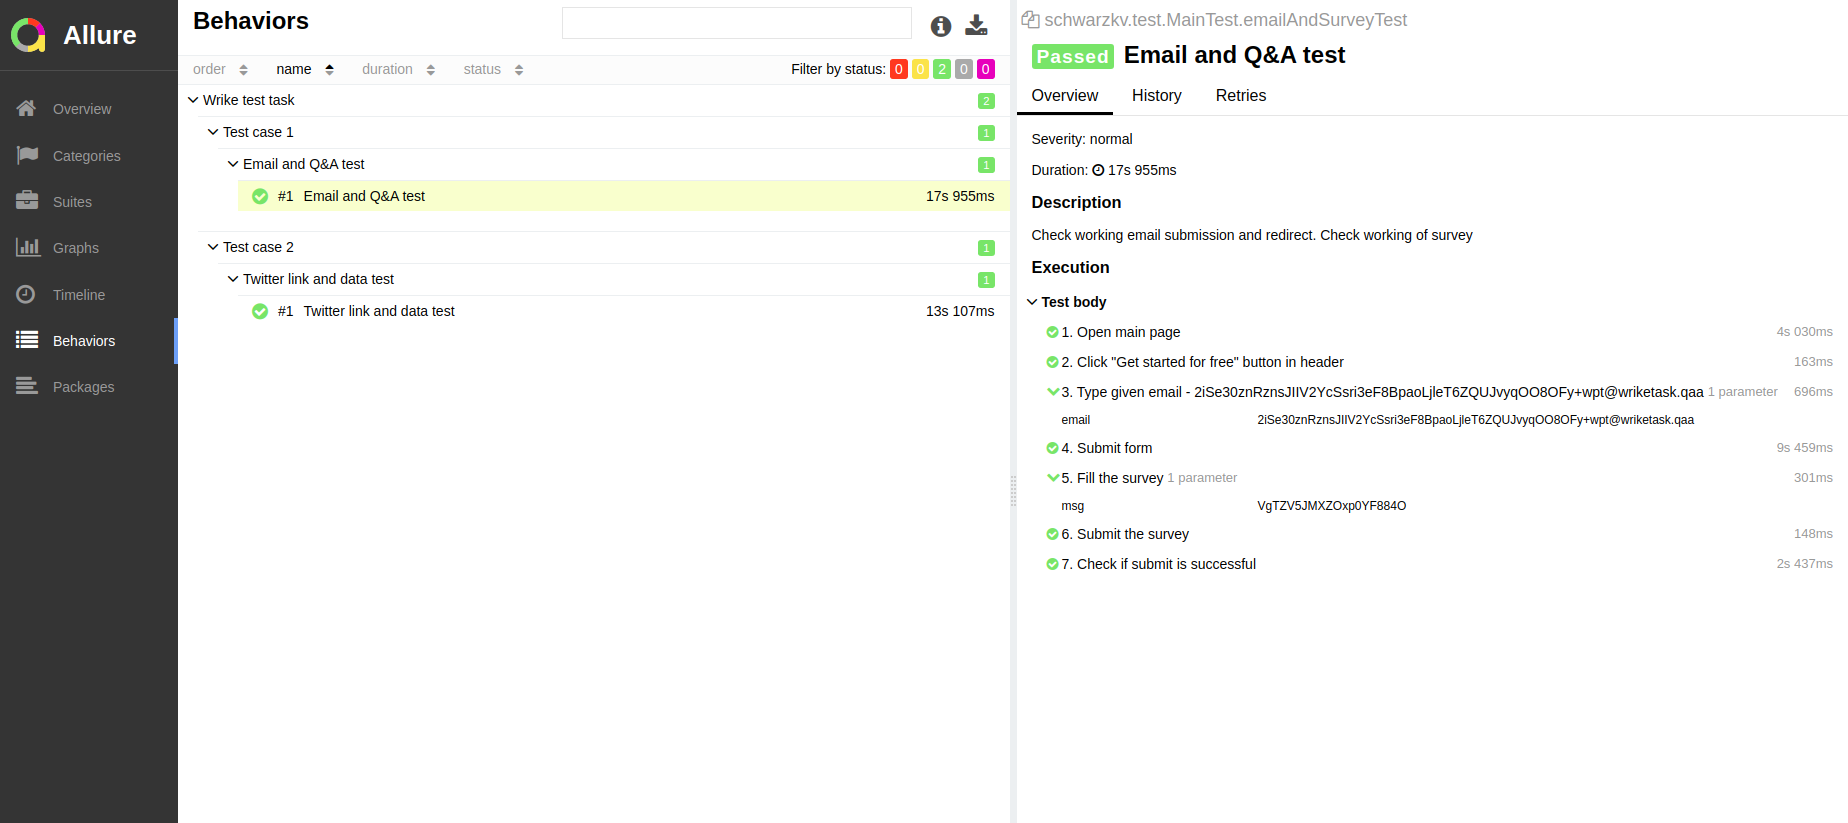
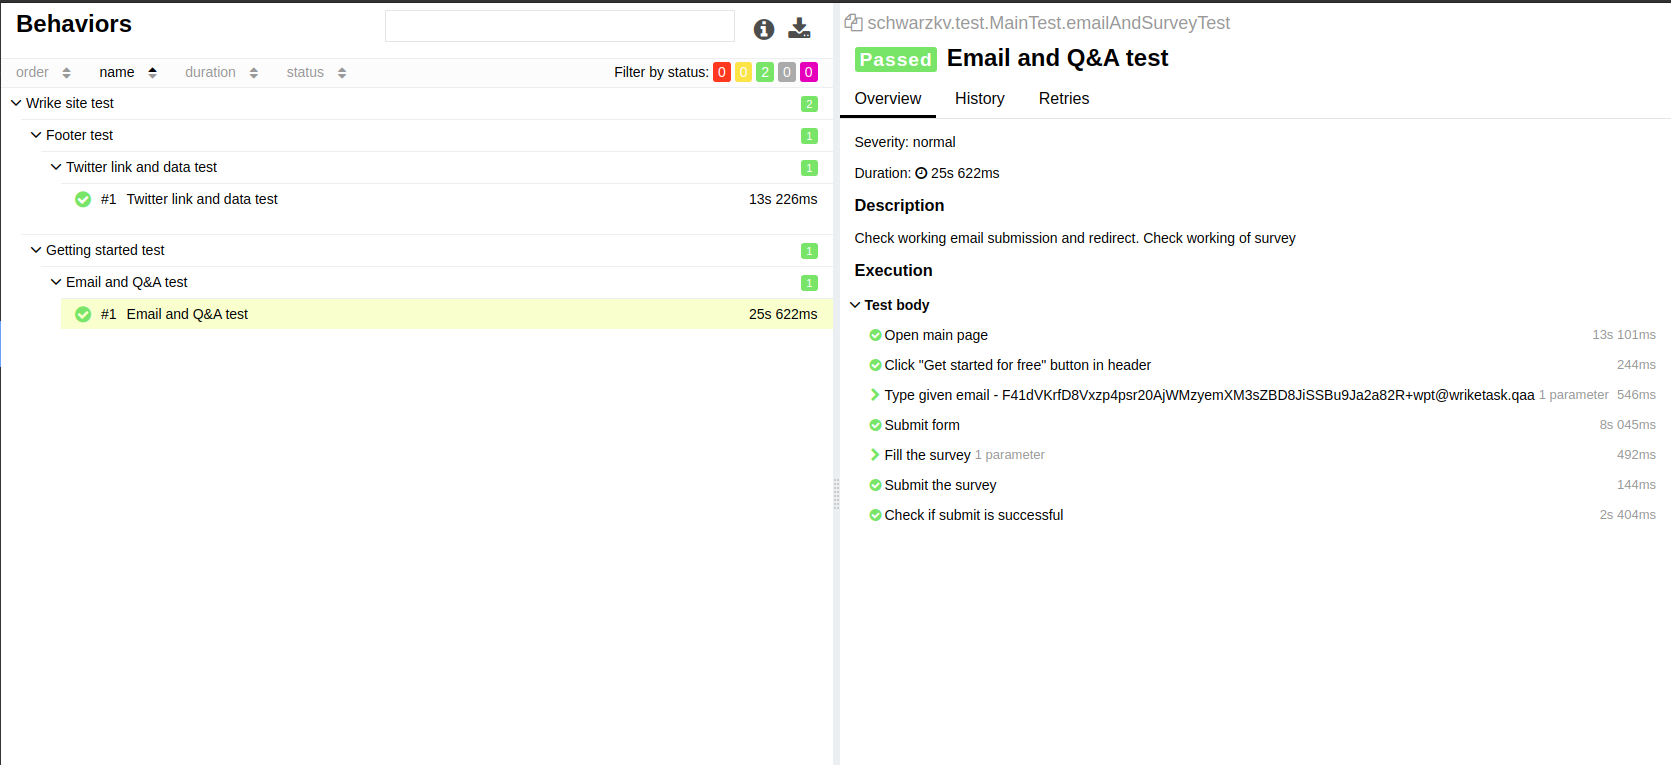
Final code inspection, minor changes

diff --git a/src/test/java/schwarzkv/steps/MainSteps.java b/src/test/java/schwarzkv/steps/MainSteps.java
@@ -9,6 +9,7 @@ import org.openqa.selenium.support.ui.ExpectedConditions;
 import org.openqa.selenium.support.ui.WebDriverWait;
 import schwarzkv.pages.MainPage;
 
+import static org.junit.Assert.assertEquals;
 import static schwarzkv.config.Properties.*;
 
 public class MainSteps {
@@ -21,26 +22,30 @@ public class MainSteps {
         page = new MainPage(this.driver);
     }
 
-    @Step("1. Open main page")
+    @Step("Open main page")
     public MainSteps openMain() {
         driver.get(WRIKE_URL);
         return this;
     }
 
-    @Step("2. Click \"Get started for free\" button in header")
+    @Step("Click \"Get started for free\" button in header")
     public MainSteps clickGetStarted() {
+        new WebDriverWait(driver, TIMEOUT)
+                .until(ExpectedConditions.visibilityOf(page.startButton));
         page.startButton.click();
         return this;
     }
 
-    @Step("3. Type given email - {email}")
+    @Step("Type given email - {email}")
     public MainSteps typeEmail(String email) {
         page.emailInput.sendKeys(email);
         return this;
     }
 
-    @Step("4. Submit form")
+    @Step("Submit form")
     public MainSteps submitEmail() {
+        new WebDriverWait(driver, TIMEOUT)
+                .until(ExpectedConditions.visibilityOf(page.emailSubmit));
         page.emailSubmit.click();
         new WebDriverWait(driver, TIMEOUT)
                 .withMessage("Invalid url, expected URL is " + RESEND_URL)
@@ -48,16 +53,16 @@ public class MainSteps {
         return this;
     }
 
-    @Step("1. Check if twitter button leads to wrike twitter")
+    @Step("Check if twitter button leads to wrike twitter")
     public void checkLink() {
-        Assert.assertEquals(page.twitterButton.getAttribute("href"), TWITTER_URL);
+        assertEquals(page.twitterButton.getAttribute("href"), TWITTER_URL);
     }
 
-    @Step("2. Check if icon is proper")
+    @Step("Check if icon is proper")
     public void checkIcon() {
         driver.get(WRIKE_URL + ICON_URL);
         WebElement element = driver.findElement(By.xpath("//*[@id='twitter']//*[@d]"));
-        Assert.assertEquals(element.getAttribute("d"), SVG);
-        Assert.assertEquals(element.getAttribute("fill"), ICON_FILL);
+        assertEquals(element.getAttribute("d"), SVG);
+        assertEquals(element.getAttribute("fill"), ICON_FILL);
     }
 }

diff --git a/src/test/java/schwarzkv/test/MainTest.java b/src/test/java/schwarzkv/test/MainTest.java
@@ -12,10 +12,11 @@ import org.openqa.selenium.WebDriver;
 import schwarzkv.config.browser.ChromeConfig;
 import schwarzkv.steps.MainSteps;
 import schwarzkv.steps.SurveySteps;
-import schwarzkv.util.StringGenerator;
 
 import static schwarzkv.config.Properties.POSTFIX;
+import static schwarzkv.util.StringGenerator.generateRandomString;
 
+@Epic("Wrike site test")
 public class MainTest {
 
     private WebDriver driver;
@@ -29,16 +30,15 @@ public class MainTest {
         driver = ChromeConfig.ChromeDriver();
         mainSteps = new MainSteps(driver);
         surveySteps = new SurveySteps(driver);
-        email = StringGenerator.generate(50) + POSTFIX;
-        otherMessage = StringGenerator.generate(20);
+        email = generateRandomString(50) + POSTFIX;
+        otherMessage = generateRandomString(20);
     }
 
 
     @Test
     @DisplayName("Email and Q&A test")
     @Description("Check working email submission and redirect. Check working of survey")
-    @Epic("Wrike test task")
-    @Feature("Test case 1")
+    @Feature("Getting started test")
     @Story("Email and Q&A test")
     public void emailAndSurveyTest() {
         mainSteps
@@ -55,8 +55,7 @@ public class MainTest {
     @Test
     @DisplayName("Twitter link and data test")
     @Description("Check if button redirects to the right place and icon is correct")
-    @Epic("Wrike test task")
-    @Feature("Test case 2")
+    @Feature("Footer test")
     @Story("Twitter link and data test")
     public void twitterTest() {
         mainSteps

diff --git a/src/test/java/schwarzkv/steps/SurveySteps.java b/src/test/java/schwarzkv/steps/SurveySteps.java
@@ -21,7 +21,7 @@ public class SurveySteps {
     }
 
 
-    @Step("5. Fill the survey")
+    @Step("Fill the survey")
     public SurveySteps setAnswers(String msg) {
         Random random = new Random();
         page.options.get(random.nextInt(2)).click();
@@ -33,18 +33,19 @@ public class SurveySteps {
         return this;
     }
 
-    @Step("6. Submit the survey")
+    @Step("Submit the survey")
     public SurveySteps submitSurvey() {
+        new WebDriverWait(driver, TIMEOUT)
+                .until(ExpectedConditions.visibilityOf(page.surveySubmit));
         page.surveySubmit.click();
         return this;
     }
 
-    @Step("7. Check if submit is successful")
-    public SurveySteps checkSuccess() {
+    @Step("Check if submit is successful")
+    public void checkSuccess() {
         new WebDriverWait(driver, TIMEOUT)
                 .withMessage("Submit failed")
                 .until(ExpectedConditions.visibilityOf(page.message));
-        return this;
     }
 
 

diff --git a/src/test/java/schwarzkv/pages/SurveyPage.java b/src/test/java/schwarzkv/pages/SurveyPage.java
@@ -14,7 +14,7 @@ public class SurveyPage extends Page {
     @FindBy(xpath = "//*[contains(@class,'survey-form')]//*[contains(@class,'switch__button')]")
     public List<WebElement> options;
 
-    @FindBy(xpath = "//input[contains(@type,'text')]")
+    @FindBy(xpath = "//*[contains(@class,'switch__input')]")
     public WebElement otherInput;
 
     @FindBy(xpath = "//*[contains(@class,'js-survey-submit')]")

diff --git a/src/test/java/schwarzkv/util/StringGenerator.java b/src/test/java/schwarzkv/util/StringGenerator.java
@@ -2,7 +2,7 @@ package schwarzkv.util;
 
 public class StringGenerator {
 
-    public static String generate(int length) {
+    public static String generateRandomString(int length) {
         String AlphaNumericString = "ABCDEFGHIJKLMNOPQRSTUVWXYZ"
                 + "0123456789"
                 + "abcdefghijklmnopqrstuvxyz";
